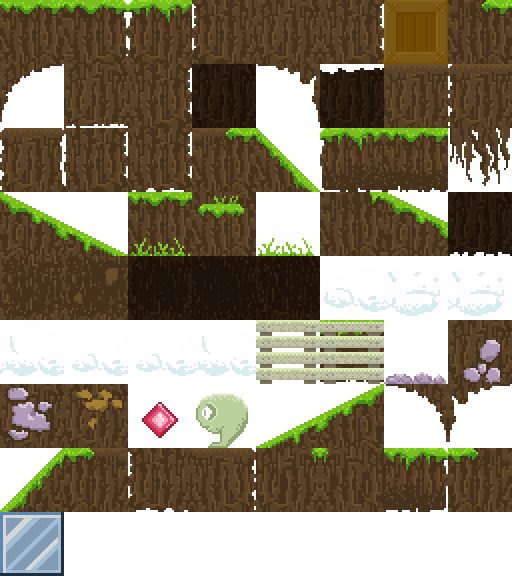
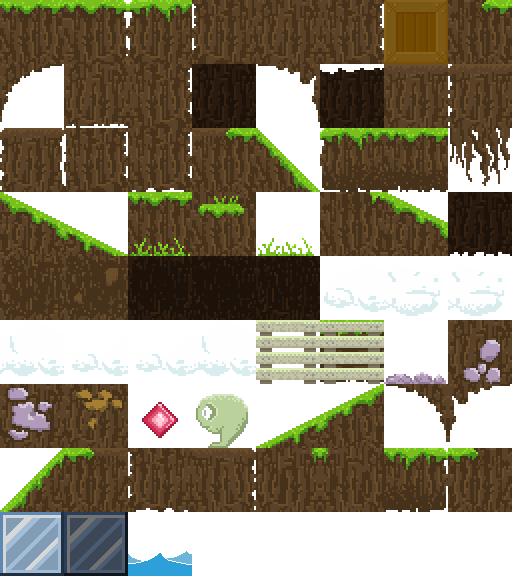
Added waves

Changed region(s): [[0.125, 0.875, 0.375, 1.0]]

diff --git a/src/states/Main.js b/src/states/Main.js
@@ -13,8 +13,10 @@ class Main extends Phaser.State {
     this.game.theTree02 = this.game.add.sprite(29 * this.game.multiplier, 4.1 * this.game.multiplier, 'tree-02');
     this.game.theTree02.scale.setTo(2, 2);
 
-    // add metal door sprite
-    this.game.facilityDoor = this.game.add.sprite(199 * this.game.multiplier, 18 * this.game.multiplier, 'metal-door');
+    // add wave sprites
+    this.game.waves = this.game.add.tileSprite(0, 29 * this.game.multiplier, 200 * 64, 64, 'waves', 0);
+    this.game.waves.animations.add('wave', [0, 1], 2, true);
+    this.game.waves.animations.play('wave');
 
     //add main tilemap
     this.map = this.game.add.tilemap('jungle-tilemap');
@@ -40,6 +42,11 @@ class Main extends Phaser.State {
     // make the ratBounds tiles invisible
     this.ratBounds.alpha = 0;
 
+    // add metal door sprite
+    this.game.facilityDoor = this.game.add.sprite(199 * this.game.multiplier, 18 * this.game.multiplier, 'metal-door');
+    this.game.facilityDoor.open = false;
+    this.game.facilityDoor.delay = 0;
+
     // set world size to match size of groundLayer
     this.decorationLayer.resizeWorld();
 
@@ -50,7 +57,7 @@ class Main extends Phaser.State {
      *
      * Is used in a higher-level state (Setup) in some functions, so declared in global scope here
      */
-    this.game.theCat = this.game.add.sprite(10 * this.game.multiplier, 26 * this.game.multiplier, 'cat');
+    this.game.theCat = this.game.add.sprite(187 * this.game.multiplier, 25 * this.game.multiplier, 'cat');
     //this.game.theCat.x = 2 * this.game.multiplier;
     //this.game.theCat.y = 1 * this.game.multiplier;
     this.game.physics.arcade.enable(this.game.theCat);
@@ -165,8 +172,12 @@ class Main extends Phaser.State {
       let catX = this.game.theCat.x;
       let doorX = this.game.facilityDoor.x;
 
-      if (doorX - catX < 100) {
-        this.game.moveDoor;
+      if (this.game.time.now > this.game.facilityDoor.delay) {
+        if (catX > 197 * this.game.multiplier && !this.game.facilityDoor.open) {
+          this.game.moveDoor('right');
+        } else if (catX < 197 * this.game.multiplier && this.game.facilityDoor.open) {
+          this.game.moveDoor('left');
+        }
       }
     };
     nearDoor();

diff --git a/src/states/Setup.js b/src/states/Setup.js
@@ -800,9 +800,19 @@ class Setup extends Phaser.State {
       this.game.ratsDead = true;
     };
 
-    this.game.moveDoor = () => {
-      console.log('move door');
-      this.game.add.tween(this.game.facilityDoor).to({ alpha: 0 }, 2000, Phaser.Easing.Linear.None, true, 1500);
+    this.game.moveDoor = direction => {
+      if (direction === 'right') {
+        this.game.facilityDoor.open = true;
+        this.game.add
+          .tween(this.game.facilityDoor)
+          .to({ x: 200 * this.game.multiplier }, 300, Phaser.Easing.Linear.None, true);
+      } else if (direction === 'left') {
+        this.game.facilityDoor.open = false;
+        this.game.add
+          .tween(this.game.facilityDoor)
+          .to({ x: 199 * this.game.multiplier }, 300, Phaser.Easing.Linear.None, true);
+      }
+      this.game.facilityDoor.delay = this.game.time.now + 500;
     };
 
     this.game.state.start('Menu');

diff --git a/src/states/Preload.js b/src/states/Preload.js
@@ -67,6 +67,7 @@ class Preload extends Phaser.State {
     /* Load image assets for the tiles */
     this.game.load.image('ground_tiles', 'assets/tiles/ground_tiles.png'); // Main ground tiles - DecorationLayer
     this.game.load.image('slope_tiles', 'assets/tiles/arcade_slopes.png'); // Collision tiles - SlopeLayer
+    this.game.load.spritesheet('waves', 'assets/tiles/waves.png', 64, 64);
 
     /**
      * Load game music, for the current level - plan is to have 3 music loops, one for each level
